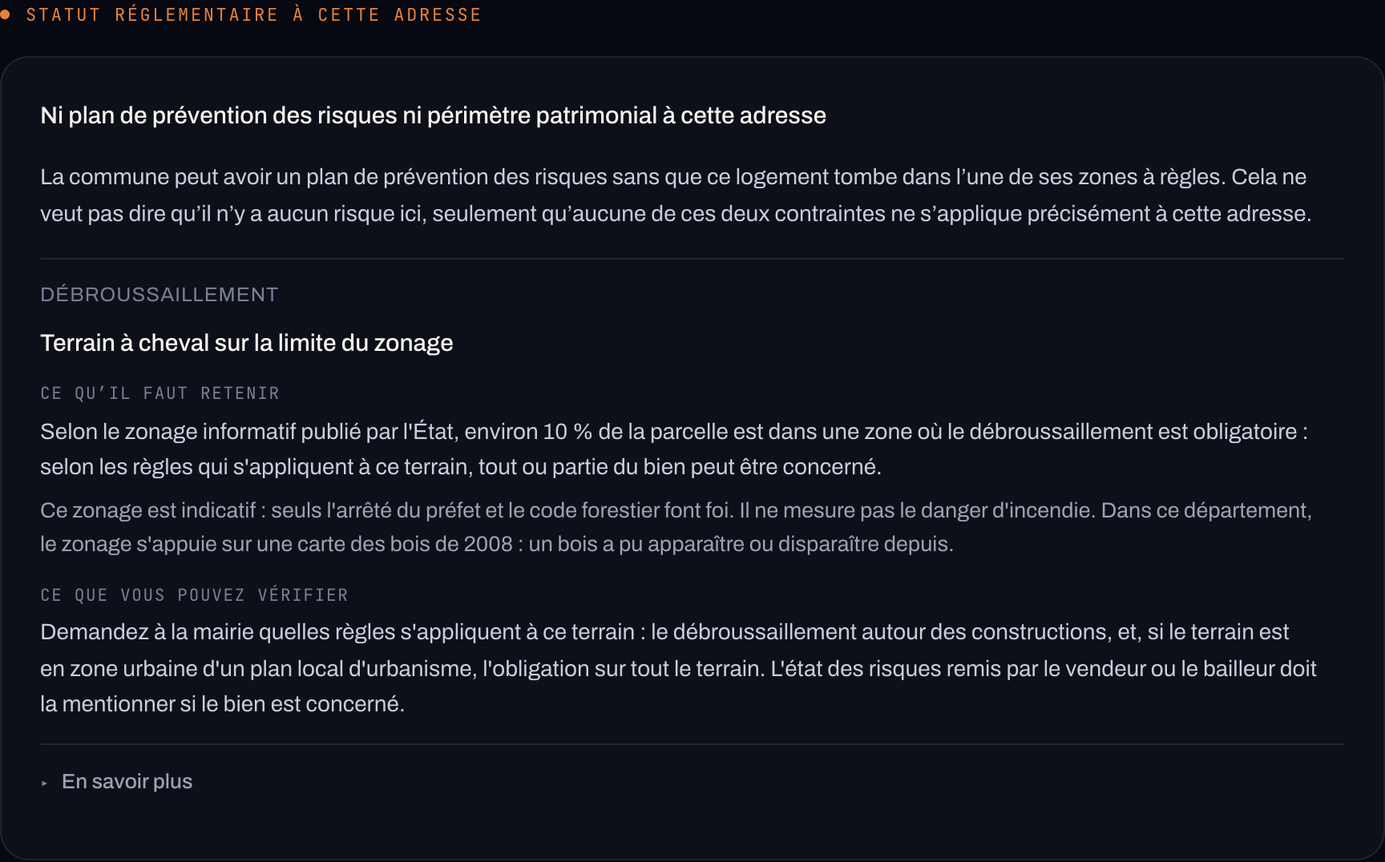
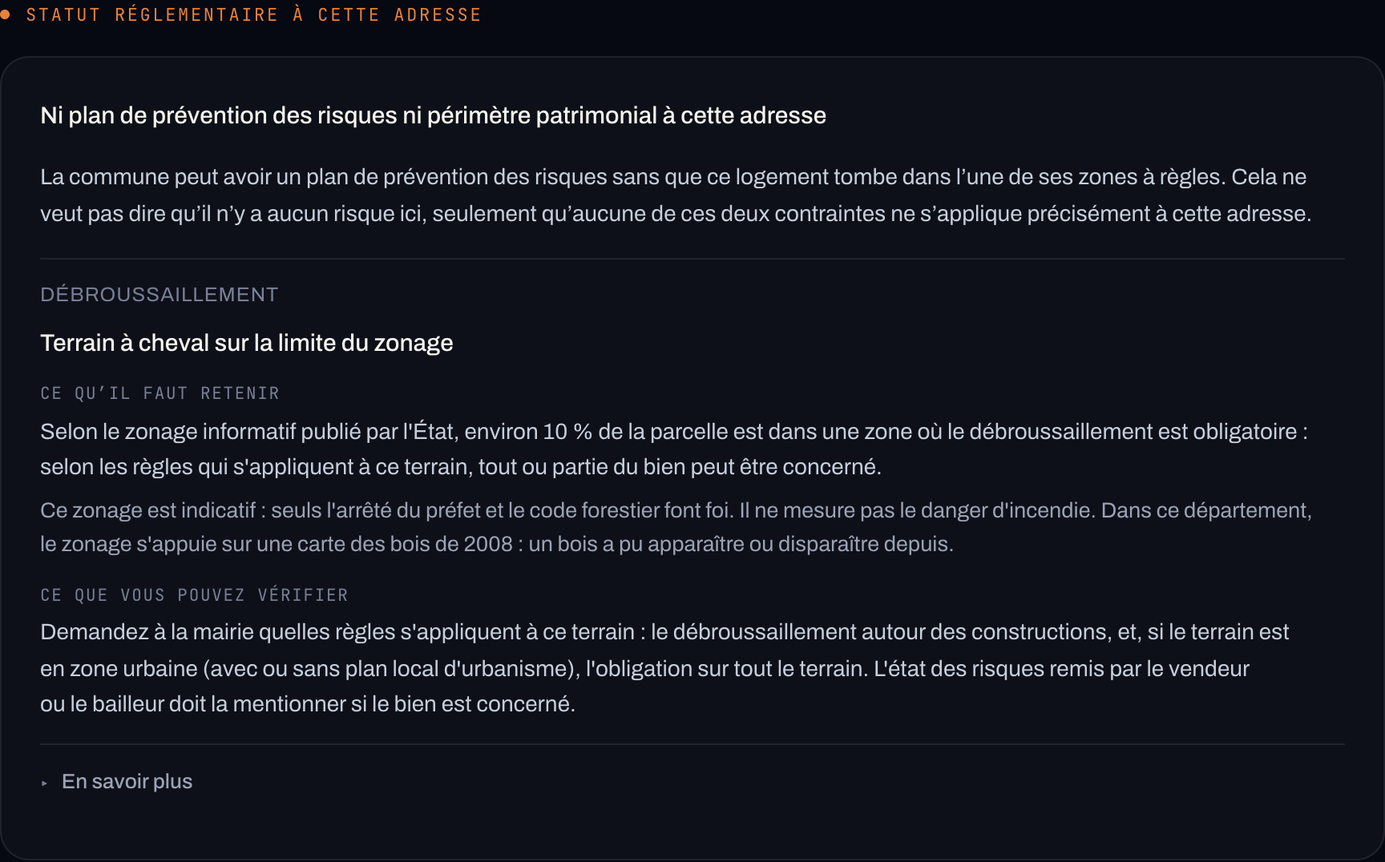
FUT-149 : lever les réserves de la contre-revue du 30/10 (R1, R2, R4, R5, R6, R7, R8)
- R1 : une arête alignée sur la grille n'est examinée que dans la fenêtre de
  lecture (p99 204 → 14 ms, max 953 → 49 ms ; 14 958 lectures identiques).
- R2 : le pointeur porte le SHA-256 du manifeste ; le manifeste (264 Ko) n'est
  téléchargé qu'au changement d'édition, plus toutes les 10 min ; chargement
  dédoublonné entre lectures simultanées.
- R4 : tuiles en mémoire indexées par leur empreinte ; un identifiant d'édition
  réutilisé n'est jamais mélangé. Précautions documentées dans publier.mjs.
- R5 : l'obligation sur tout le terrain vaut aussi dans les zones urbaines des
  communes sans PLU (L134-6, 4°) ; responsables distincts gardés (L134-8).
- R6 : « une limite de parcelle », plus « deux parcelles ».
- R7 : éditions triées par date puis révision ; purge testée après retour arrière.
- R8 : extraction effacée après construction ; nom de fichier corrigé.

Captures et textes de recette régénérés (3 cas changent, aucun débordement).

Changed region(s): [[0.0312, 0.7667, 0.9688, 0.8281]]

diff --git a/src/lib/debroussaillement-texte.ts b/src/lib/debroussaillement-texte.ts
@@ -12,7 +12,7 @@
 //  ni de la forêt. Ni un nombre de mètres à débroussailler pour CE propriétaire : l'arrêté et le maire le fixent
 //  selon la construction et le secteur (la règle générale est dans « En savoir plus »). Ni un responsable désigné
 //  d'office : L134-8 le distingue selon les situations. Ni une obligation réduite aux seules constructions : en
-//  zone urbaine, elle peut porter sur le terrain (L134-6, 3°). Ni « pas d'obligation »
+//  zone urbaine, avec ou sans plan local d'urbanisme, elle porte sur le terrain (L134-6, 3° et 4°). Ni « pas d'obligation »
 //  hors zonage ou hors des départements publiés : le zonage est informatif.
 
 import type { LectureDebroussaillement, ProfilZonage } from "./debroussaillement.ts";
@@ -41,13 +41,19 @@ const ZONE = "une zone où le débroussaillement est obligatoire";
 /** Le zonage est informatif : la phrase dit d'où vient le constat, jamais qu'une décision réglementaire est prise. */
 const SELON = "selon le zonage informatif publié par l'État";
 
-// DEUX OBLIGATIONS DISTINCTES (code forestier, L134-6 et L134-8, relus le 29/10/2026 dans l'édition consolidée du
-// 13/10/2026). 1° : les abords des constructions, sur 50 m que le MAIRE peut porter à 100 m (dans une commune sans
-// plan local d'urbanisme, le préfet peut aller jusqu'à 200 m, 4°), à la charge du propriétaire des constructions.
-// 3° : les terrains situés en zone urbaine d'un plan local d'urbanisme, en entier, bâtis ou non, indépendamment
-// de toute décision du maire sur la profondeur, à la charge du propriétaire du terrain. D'autres cas (voies privées,
-// ZAC et lotissements, campings, installations classées) ont leurs propres règles et responsables.
-const REGLE = "Dans les bois, forêts, landes, maquis et garrigues classés à risque d'incendie, et jusqu'à 200 m autour, le code forestier prévoit notamment deux obligations distinctes. Autour des constructions, sur 50 m, que le maire peut porter à 100 m : elle incombe au propriétaire des constructions. Sur les terrains situés dans une zone urbaine d'un plan local d'urbanisme, sur la totalité du terrain, bâti ou non, quelle que soit cette distance : elle incombe au propriétaire du terrain. D'autres cas (voies privées, lotissements, campings, certaines installations) ont leurs propres règles. L'arrêté du préfet en précise les modalités, qui varient d'un département à l'autre (code forestier, articles L134-6 et L134-8).";
+// DEUX OBLIGATIONS DISTINCTES (code forestier, L134-6 et L134-8 dans leur rédaction issue de la loi n° 2023-580,
+// art. 21, relus le 29/10 puis le 30/10/2026 dans l'édition consolidée du 13/10/2026).
+//  - 1° : les abords des constructions, sur 50 m que le MAIRE peut porter à 100 m ; à la charge du propriétaire des
+//    constructions (L134-8, 1°). Dans une commune sans plan local d'urbanisme, le PRÉFET peut aussi porter cette
+//    profondeur au-delà de 50 m, sans excéder 200 m (4°, seconde phrase) : c'est l'arrêté qui le dit.
+//  - 3° et 4° : les terrains situés en ZONE URBAINE, en entier, bâtis ou non, indépendamment de toute profondeur ;
+//    à la charge du propriétaire du terrain (L134-8, 2°, qui vise les cas 3° à 6°). Le 3° vise les zones urbaines
+//    d'un plan local d'urbanisme (ou d'un document qui en tient lieu), le 4° celles des communes qui n'en ont pas.
+//    La contre-revue du 30/10/2026 a relevé que ce 4° manquait : l'écran réservait l'obligation sur le terrain aux
+//    communes dotées d'un plan local d'urbanisme. D'où « que la commune ait un plan local d'urbanisme ou non ».
+// D'autres cas (voies privées, ZAC et lotissements, campings, installations classées) ont leurs propres règles et
+// responsables (L134-6, 2° et 5° à 8° ; L134-8, 2° à 4°).
+const REGLE = "Dans les bois, forêts, landes, maquis et garrigues classés à risque d'incendie, et jusqu'à 200 m autour, le code forestier prévoit notamment deux obligations distinctes. Autour des constructions, sur 50 m, que le maire peut porter à 100 m : elle incombe au propriétaire des constructions. Sur les terrains situés en zone urbaine, que la commune ait un plan local d'urbanisme ou non, sur la totalité du terrain, bâti ou non, quelle que soit cette distance : elle incombe au propriétaire du terrain. D'autres cas (voies privées, lotissements, campings, certaines installations) ont leurs propres règles. L'arrêté du préfet en précise les modalités, qui varient d'un département à l'autre (code forestier, articles L134-6 et L134-8).";
 const INFORMATION = "Depuis le 1er janvier 2025, le vendeur ou le bailleur d'un bien situé dans une zone soumise doit en informer l'acquéreur ou le locataire ; l'état des risques comporte alors une fiche sur cette obligation (décret n° 2024-405 du 29 avril 2024, code de l'environnement, article R125-23).";
 const INDICATIF = "Ce zonage est indicatif : seuls l'arrêté du préfet et le code forestier font foi. Il ne mesure pas le danger d'incendie.";
 const PETITS_BOIS = "Ce zonage est indicatif : de petits bois peuvent y manquer, et seule la mairie peut confirmer qu'aucune obligation ne s'applique.";
@@ -175,7 +181,8 @@ function rattachement(l: LectureDebroussaillement): string | null {
   if (l.portee === "non_precisee") return "La précision de la localisation n'est pas connue : la lecture porte sur le point de l'adresse.";
   switch (l.parcelleEcartee) {
     case "repli": return "La parcelle rattachée à l'adresse l'a été par proximité et pourrait être celle d'un voisin : la lecture porte sur le point de l'adresse.";
-    case "limite": return "Le point de l'adresse tombe sur la limite de deux parcelles : la lecture porte sur ce point.";
+    // Une ou deux parcelles : le voisin de l'autre côté du trait peut être la voie publique (contre-revue du 30/10/2026).
+    case "limite": return "Le point de l'adresse tombe sur une limite de parcelle : la lecture porte sur ce point.";
     case "hors_point": return "La parcelle transmise ne contient pas le point de l'adresse et pourrait être celle d'un voisin : la lecture porte sur le point de l'adresse.";
     case "non_mesurable": return "Le tracé de la parcelle n'a pas pu être mesuré : la lecture porte sur le point de l'adresse.";
     case "absente": return "Aucune parcelle n'a été rattachée à l'adresse : la lecture porte sur son point.";
@@ -186,10 +193,10 @@ function rattachement(l: LectureDebroussaillement): string | null {
 
 const VERIFIER_ZONE = "Avant de vous engager, consultez le zonage officiel sur Géorisques et les règles qui s'appliquent (arrêté du préfet, décisions du maire sur la distance). Demandez au vendeur ou au bailleur l'état des risques, qui doit mentionner cette obligation, et si l'entretien a été fait.";
 const VERIFIER_LIMITE = "Vérifiez sur le zonage officiel (Géorisques) ou auprès de la mairie si le terrain est concerné. L'état des risques remis par le vendeur ou le bailleur doit le mentionner s'il l'est.";
-/** Une parcelle à cheval : deux obligations possibles (L134-6, 1° et 3°), que seule la mairie départage. */
-const VERIFIER_A_CHEVAL = "Demandez à la mairie quelles règles s'appliquent à ce terrain : le débroussaillement autour des constructions, et, si le terrain est en zone urbaine d'un plan local d'urbanisme, l'obligation sur tout le terrain. L'état des risques remis par le vendeur ou le bailleur doit la mentionner si le bien est concerné.";
-/** Qui doit débroussailler (L134-8) : le propriétaire des constructions pour leurs abords, celui du terrain en zone urbaine. */
-const RESPONSABLE = "Qui doit débroussailler dépend de la situation : le propriétaire des constructions pour leurs abords, celui du terrain s'il est en zone urbaine d'un plan local d'urbanisme.";
+/** Une parcelle à cheval : deux obligations possibles (L134-6, 1° d'une part, 3° ou 4° d'autre part), que seule la mairie départage. */
+const VERIFIER_A_CHEVAL = "Demandez à la mairie quelles règles s'appliquent à ce terrain : le débroussaillement autour des constructions, et, si le terrain est en zone urbaine (avec ou sans plan local d'urbanisme), l'obligation sur tout le terrain. L'état des risques remis par le vendeur ou le bailleur doit la mentionner si le bien est concerné.";
+/** Qui doit débroussailler (L134-8, 1° et 2°) : le propriétaire des constructions pour leurs abords, celui du terrain en zone urbaine. */
+const RESPONSABLE = "Qui doit débroussailler dépend de la situation : le propriétaire des constructions pour leurs abords, celui du terrain s'il est en zone urbaine (avec ou sans plan local d'urbanisme).";
 
 /**
  * LOGEMENT : le bien. `null` : rapport écrit avant FUT-149, ou lecture non activée. Le titre est le fait, la phrase

diff --git a/src/lib/server/debroussaillement-tuiles.ts b/src/lib/server/debroussaillement-tuiles.ts
@@ -10,10 +10,17 @@ import {
 // LE ZONAGE DU DÉBROUSSAILLEMENT OBLIGATOIRE (FUT-149), lu dans les tuiles publiées sur Supabase Storage
 // (bucket privé, `scripts/debroussaillement/publier.mjs`). Même patron que la fibre à l'adresse (FUT-156).
 //
-// Une analyse lit une à quatre tuiles (9 Ko compressés en médiane). Le pointeur `courant.json` et le manifeste de
-// l'édition qu'il désigne sont gardés en mémoire de l'instance dix minutes ; les tuiles, immuables, sont gardées
-// tant qu'il y a de la place (le module Autour et le module Logement d'un même dossier lisent la même).
-// Publier une nouvelle édition, ou revenir à la précédente, ne demande qu'une réécriture du pointeur.
+// Une analyse lit une à quatre tuiles (9 Ko compressés en médiane). Ce que l'instance garde en mémoire, et
+// pourquoi (contre-revue du 30/10/2026) :
+//  - le POINTEUR `courant.json` (une centaine d'octets) est relu à l'origine toutes les dix minutes : c'est le
+//    délai maximal pour qu'une bascule, ou un retour arrière, soit vu par une instance déjà démarrée ;
+//  - le MANIFESTE (270 Ko pour l'édition nationale) n'est téléchargé que lorsque le pointeur en désigne un autre :
+//    le pointeur porte son SHA-256, et la mémoire est indexée par cette empreinte. Avant, il était relu avec le
+//    pointeur, toutes les dix minutes, par chaque instance ;
+//  - les TUILES, immuables, sont gardées tant qu'il y a de la place, indexées par leur SHA-256 (celui du
+//    manifeste) : une tuile mémorisée ne peut jamais servir un manifeste qui en attend une autre.
+// Cette mémoire est celle d'UNE instance : chaque instance qui démarre (et chaque fonction : Autour, Logement)
+// relit le pointeur et le manifeste une fois. Rien n'est partagé entre instances.
 //
 // Accès serveur seulement, par la clé de service déjà présente côté serveur ; rien n'est exposé au navigateur.
 // Désactivé tant que `DEBROUSSAILLEMENT_BUCKET` n'est pas défini : rien n'est lu, rien n'est écrit dans le
@@ -42,9 +49,10 @@ export function configDebroussaillement(env: NodeJS.ProcessEnv = process.env): C
 type Lecteur = (chemin: string, frais?: boolean) => Promise<Buffer>;
 
 /**
- * `frais` : le pointeur et le manifeste peuvent être réécrits lors d'une bascule ; le CDN de Supabase peut servir
- * l'ancienne version jusqu'à son expiration. Un paramètre unique force la lecture à l'origine (doc Supabase,
- * « Bypassing cache »). Les tuiles, immuables, gardent le cache.
+ * `frais` : le pointeur est réécrit à chaque bascule ; le CDN de Supabase peut servir l'ancienne version jusqu'à son
+ * expiration. Un paramètre unique force la lecture à l'origine (doc Supabase, « Bypassing cache »). Le manifeste,
+ * lu une fois par instance et par édition, l'est aussi à l'origine : une copie en cache d'un manifeste effacé puis
+ * republié ferait échouer son empreinte. Les tuiles, immuables et vérifiées, gardent le cache.
  */
 function lecteurStorage(c: Config, f: typeof fetch): Lecteur {
   return async (chemin, frais = false) => {
@@ -59,37 +67,55 @@ function lecteurStorage(c: Config, f: typeof fetch): Lecteur {
   };
 }
 
-let courant: { manifeste: ManifesteDebroussaillement; jusqua: number } | null = null;
+const sha256 = (b: Buffer) => createHash("sha256").update(b).digest("hex");
+
+/** Le pointeur écrit par `publier.mjs basculer` : l'édition, et l'empreinte de son manifeste. */
+let pointeur: { edition: string; manifeste: string; jusqua: number } | null = null;
+/** Le manifeste, indexé par son empreinte ; une promesse, pour que deux lectures simultanées ne le chargent qu'une fois. */
+let manifeste: { sha256: string; promesse: Promise<ManifesteDebroussaillement> } | null = null;
 const tuiles = new Map<string, TuileDebroussaillement>();
 
 async function manifesteCourant(lire: Lecteur): Promise<ManifesteDebroussaillement> {
-  if (courant && courant.jusqua > Date.now()) return courant.manifeste;
-  const pointeur = JSON.parse((await lire("courant.json", true)).toString("utf8")) as { format?: string; edition?: string };
-  if (pointeur?.format !== FORMAT_TUILES_DEBROUSSAILLEMENT || !EDITION.test(pointeur.edition ?? "")) throw new Error("pointeur illisible");
-  const m: unknown = JSON.parse((await lire(`${pointeur.edition}/manifest.json`, true)).toString("utf8"));
-  if (!manifesteValide(m) || m.edition !== pointeur.edition) throw new Error("manifeste illisible");
-  courant = { manifeste: m, jusqua: Date.now() + DUREE_POINTEUR_MS };
-  return m;
+  if (!pointeur || pointeur.jusqua <= Date.now()) {
+    const p = JSON.parse((await lire("courant.json", true)).toString("utf8")) as { format?: string; edition?: string; manifeste?: string };
+    if (p?.format !== FORMAT_TUILES_DEBROUSSAILLEMENT || !EDITION.test(p.edition ?? "") || !/^[a-f0-9]{64}$/.test(p.manifeste ?? "")) throw new Error("pointeur illisible");
+    pointeur = { edition: p.edition!, manifeste: p.manifeste!, jusqua: Date.now() + DUREE_POINTEUR_MS };
+  }
+  const { edition, manifeste: attendu } = pointeur;
+  if (manifeste?.sha256 !== attendu) {
+    const promesse = (async () => {
+      const octets = await lire(`${edition}/manifest.json`, true);
+      // L'empreinte vient de la bascule : un manifeste qui n'est pas celui que le pointeur désigne est une panne.
+      if (sha256(octets) !== attendu) throw new Error("manifeste : empreinte différente du pointeur");
+      const m: unknown = JSON.parse(octets.toString("utf8"));
+      if (!manifesteValide(m) || m.edition !== edition) throw new Error("manifeste illisible");
+      return m;
+    })();
+    manifeste = { sha256: attendu, promesse };
+    // Un échec n'est pas gardé : la lecture suivante réessaie.
+    promesse.catch(() => { if (manifeste?.promesse === promesse) manifeste = null; });
+  }
+  return manifeste!.promesse;
 }
 
 async function tuile(lire: Lecteur, m: ManifesteDebroussaillement, cle: string): Promise<TuileDebroussaillement> {
-  const memo = tuiles.get(`${m.edition}/${cle}`);
-  if (memo) return memo;
   const attendu = m.tuiles[cle];
   if (!attendu || "plein" in attendu) throw new Error(`${cle} : tuile absente du manifeste`);
+  const memo = tuiles.get(`${cle}/${attendu.sha256}`);
+  if (memo) return memo;
   const octets = await lire(`${m.edition}/t/${cle}.json.gz`);
   // L'empreinte vient de la construction : une tuile tronquée ou d'une autre édition est une panne.
-  if (octets.length !== attendu.octets || createHash("sha256").update(octets).digest("hex") !== attendu.sha256) throw new Error(`${cle} : empreinte différente`);
+  if (octets.length !== attendu.octets || sha256(octets) !== attendu.sha256) throw new Error(`${cle} : empreinte différente`);
   const [ix, iy] = cle.split("_").map(Number);
   const t: unknown = JSON.parse(gunzipSync(octets).toString("utf8"));
   if (!tuileValide(t, { edition: m.edition, ix, iy, profils: m.profils.length })) throw new Error(`${cle} : tuile illisible`);
   if (tuiles.size >= TUILES_EN_MEMOIRE) tuiles.delete(tuiles.keys().next().value!);
-  tuiles.set(`${m.edition}/${cle}`, t);
+  tuiles.set(`${cle}/${attendu.sha256}`, t);
   return t;
 }
 
-/** Pour les tests : oublie le pointeur et les tuiles gardés en mémoire. */
-export function oublierDebroussaillement() { courant = null; tuiles.clear(); }
+/** Pour les tests : oublie le pointeur, le manifeste et les tuiles gardés en mémoire. */
+export function oublierDebroussaillement() { pointeur = null; manifeste = null; tuiles.clear(); }
 
 /**
  * La lecture du zonage pour une adresse. `undefined` : la lecture n'est pas activée (aucune variable

diff --git a/src/lib/debroussaillement.ts b/src/lib/debroussaillement.ts
@@ -230,7 +230,8 @@ const PAS_EXAMEN = 500;
 /**
  * Les arêtes d'un anneau qui sont de VRAIES limites de zone, en polylignes (lon, lat). Une arête posée sur une
  * droite de la grille qui borde la cellule n'est écartée que par morceaux, là où la cellule voisine est couverte
- * de l'autre côté (cf. `Couvert`). Seules sont gardées les arêtes qui passent dans la `fenetre` (entiers).
+ * de l'autre côté (cf. `Couvert`). Seules sont gardées les arêtes qui passent dans la `fenetre` (entiers) ; d'une
+ * arête alignée, seuls les morceaux qui la croisent.
  */
 function vraiesLimites(pts: [number, number][], ix: number, iy: number, fenetre: Boite, couvert: Couvert): number[][][] {
   const [X0, Y0, X1, Y1] = [ix * PAS_TUILE, iy * PAS_TUILE, (ix + 1) * PAS_TUILE, (iy + 1) * PAS_TUILE];
@@ -254,7 +255,15 @@ function vraiesLimites(pts: [number, number][], ix: number, iy: number, fenetre:
     if (!voisin) { garder(ax, ay, bx, by); continue; }
     const [vx, vy, dx, dy] = voisin;
     const n = Math.max(1, Math.ceil(Math.hypot(bx - ax, by - ay) / PAS_EXAMEN));
-    for (let k = 0; k < n; k++) {
+    // Seuls les pas qui croisent la fenêtre sont examinés, avec un pas de marge de chaque côté : une arête alignée
+    // court parfois sur des kilomètres, et l'examiner en entier coûtait jusqu'à une seconde de calcul par lecture
+    // (contre-revue du 30/10/2026). Ce qui est hors de la fenêtre est trop loin pour compter.
+    const [a, b, f0, f1] = ax === bx ? [ay, by, fy0, fy1] : [ax, bx, fx0, fx1];
+    const t0 = (Math.max(f0, Math.min(a, b)) - a) / (b - a || 1);
+    const t1 = (Math.min(f1, Math.max(a, b)) - a) / (b - a || 1);
+    const kmin = Math.max(0, Math.floor(Math.min(t0, t1) * n) - 1);
+    const kmax = Math.min(n, Math.ceil(Math.max(t0, t1) * n) + 1);
+    for (let k = kmin; k < kmax; k++) {
       const [px, py] = [Math.round(ax + ((bx - ax) * k) / n), Math.round(ay + ((by - ay) * k) / n)];
       const [qx, qy] = [Math.round(ax + ((bx - ax) * (k + 1)) / n), Math.round(ay + ((by - ay) * (k + 1)) / n)];
       const [mx, my] = [Math.round((px + qx) / 2) + dx, Math.round((py + qy) / 2) + dy];

diff --git a/scripts/debroussaillement/construire.py b/scripts/debroussaillement/construire.py
@@ -356,10 +356,12 @@ def main():
     ap.add_argument("--exclusions", default=os.path.join(os.path.dirname(os.path.abspath(__file__)), "exclusions-arretes.json"))
     a = ap.parse_args()
     os.makedirs(a.sortie, exist_ok=True)
+    extraction = None
     if a.archive:
         m = re.search(r"_(\d{4}-\d{2}-\d{2})\.7z$", a.archive)
         edition = a.edition or (m and m.group(1))
-        gpkg = extraire(a.archive, tempfile.mkdtemp(dir=a.sortie, prefix=".extraction-"))
+        extraction = tempfile.mkdtemp(dir=a.sortie, prefix=".extraction-")
+        gpkg = extraire(a.archive, extraction)
     else:
         gpkg, edition = a.gpkg, a.edition
     if not gpkg or not edition or not re.fullmatch(r"\d{4}-\d{2}-\d{2}", edition):
@@ -372,7 +374,12 @@ def main():
         exclusions = json.load(f)
     if exclusions.get("editionVerifiee") != edition.split(".")[0]:
         journal(f"ATTENTION : les exclusions ont été vérifiées sur l'édition {exclusions.get('editionVerifiee')}, pas {edition} : refaire la contre-épreuve des arrêtés")
-    construire(gpkg, edition, a.sortie, a.accepter_ecart_arrete, exclusions)
+    try:
+        construire(gpkg, edition, a.sortie, a.accepter_ecart_arrete, exclusions)
+    finally:
+        # L'extraction (1,8 Go pour l'édition nationale) ne reste pas dans le dossier de sortie (contre-revue du 30/10/2026).
+        if extraction:
+            shutil.rmtree(extraction, ignore_errors=True)
 
 
 if __name__ == "__main__":

diff --git a/docs/audits/2026-10-28-fut149-debroussaillement/README.md b/docs/audits/2026-10-28-fut149-debroussaillement/README.md
@@ -64,7 +64,8 @@ GeoPackage IGN (1,76 Go)  ──  scripts/debroussaillement/construire.py  (Pyth
             │  scripts/debroussaillement/publier.mjs  (préfixe neuf, empreintes relues, pointeur écrit en dernier)
    Supabase Storage, bucket privé `debroussaillement`  (non créé)
             │
-   src/lib/server/debroussaillement-tuiles.ts   (pointeur et manifeste 10 min en mémoire, 64 tuiles, 4 s, ne lève jamais)
+   src/lib/server/debroussaillement-tuiles.ts   (pointeur relu toutes les 10 min ; manifeste et 64 tuiles en mémoire
+                                                  par empreinte ; 4 s ; ne lève jamais)
             │
    src/lib/debroussaillement.ts   (pur : point, parcelle, coupes de tuile, départements, exclusions)
       │                                         │
@@ -92,9 +93,9 @@ par sommet créait 26 polygones invalides (jusqu'à 72 km²), qui auraient rendu
 | | Mesure |
 |---|---|
 | Fonctions Vercel (build de production, tête contre `main`) | `/api/georisques-logement` 157 → 158 fichiers, 22,76 → 22,77 Mo ; `/api/logement-autour` 2 368 → 2 369 ; `/rapport/autour` 177 → 178. Le fichier ajouté est le code compilé ; **aucune donnée**, aucun glob `data/**`. La page de banc `/dev/fut149` (404 en production) embarque ses fixtures (0,35 Mo), comme `/dev/fut146`. |
-| Lecture par analyse | 1 à 4 tuiles, 8,8 Ko médiane, 128 Ko au plus ; calcul 2 ms (tuiles en mémoire). Latence Storage mesurée par FUT-156 : 81 ms médiane, 692 ms à froid (pointeur, manifeste, tuile). En parallèle des ~14 sources du Logement. |
+| Lecture par analyse | 1 à 4 tuiles, 8,8 Ko médiane, 128 Ko au plus ; calcul 1 ms en médiane, 14 ms au 99e centile, 49 ms au pire (9 972 lectures sur toutes les cellules, tuiles en mémoire, contre-revue du 30/10/2026). Latence Storage mesurée par FUT-156 : 81 ms médiane, 692 ms à froid (pointeur, manifeste, tuile). En parallèle des ~14 sources du Logement. |
 | Stockage | 32,8 Mo par édition ; deux éditions gardées : 66 Mo du quota Free de 1 Go, **partagé** entre test et production et avec la fibre (≈ 150 Mo). |
-| Egress | Autour relit au rendu (tuile gardée en mémoire de l'instance) ; ordre de grandeur 10 à 40 Ko par ouverture : 5 Go/mois couvrent plus de 100 000 lectures. |
+| Egress | Mesuré le 30/10/2026 avec le vrai lecteur sur l'édition nationale (`docs/audits/2026-10-30-fut149-contre-revue-pr111/sondes/egress.mjs`). Instance froide : **286 Ko** (pointeur, manifeste de 264 Ko, une tuile), soit environ 18 000 démarrages d'instance pour 5 Go, toutes fonctions confondues (Autour et Logement ont chacune leur mémoire). Instance chaude : le pointeur (≈ 130 octets) toutes les 10 min, le manifeste une seule fois par édition, puis les tuiles qui ne sont pas déjà en mémoire (≈ 13 Ko par lecture quand les adresses sont tirées au hasard en France). Le chiffre « 100 000 lectures pour 5 Go » ne vaut que pour des instances déjà chaudes. |
 | Construction | 3 min (Python), 590 Mo à télécharger. Envoi : ~2 450 objets, à mesurer à la première publication. |
 | Coût monétaire | Nul (Free). Aucun achat, aucun changement de tarif. |
 | Maintenance | Une édition IGN tous les 6 à 12 mois (5 en 3 ans) ; contre-épreuve des arrêtés à rejouer à chaque édition et à chaque arrêté ministériel. |
@@ -111,11 +112,11 @@ par sommet créait 26 polygones invalides (jusqu'à 72 km²), qui auraient rendu
 
 ## Recette
 
-- **Tests** : `src/lib/fut149-debroussaillement.test.ts`, 80 tests (géométrie synthétique : contact, 1 cm, liseré,
+- **Tests** : `src/lib/fut149-debroussaillement.test.ts`, 86 tests (80 au 29/10, puis 6 de la contre-revue du 30/10) (géométrie synthétique : contact, 1 cm, liseré,
   coupe de tuile, vraie limite alignée sur la grille, cellule pleine, parcelle invalide, voisine, point hors de la
   parcelle, rue, immense ; départements ; pannes et versions ; textes rendus et interdits ; lecteur Storage ; 24
-  adresses réelles contre deux oracles) et `scripts/debroussaillement/publier.test.mjs`, 8 scénarios de
-  publication sur Storage simulé. Suite complète, seule, `--test-concurrency=1`, après réintégration de `main`
+  adresses réelles contre deux oracles) et `scripts/debroussaillement/publier.test.mjs`, 12 scénarios de
+  publication sur Storage simulé (8, puis 4 de la contre-revue du 30/10). Suite complète, seule, `--test-concurrency=1`, après réintégration de `main`
   (#108, #110, #112) : `main` 3 826 → tête 3 914 (+88), 0 échec. `tsc` propre ; ESLint identique à `main` (6 erreurs
   et 8 avertissements préexistants ; 0 erreur dans les fichiers de la PR).
 - **Rendu** : banc `/dev/fut149?vue=section|autour|logement&cas=…` capturé par Chrome sans interface
